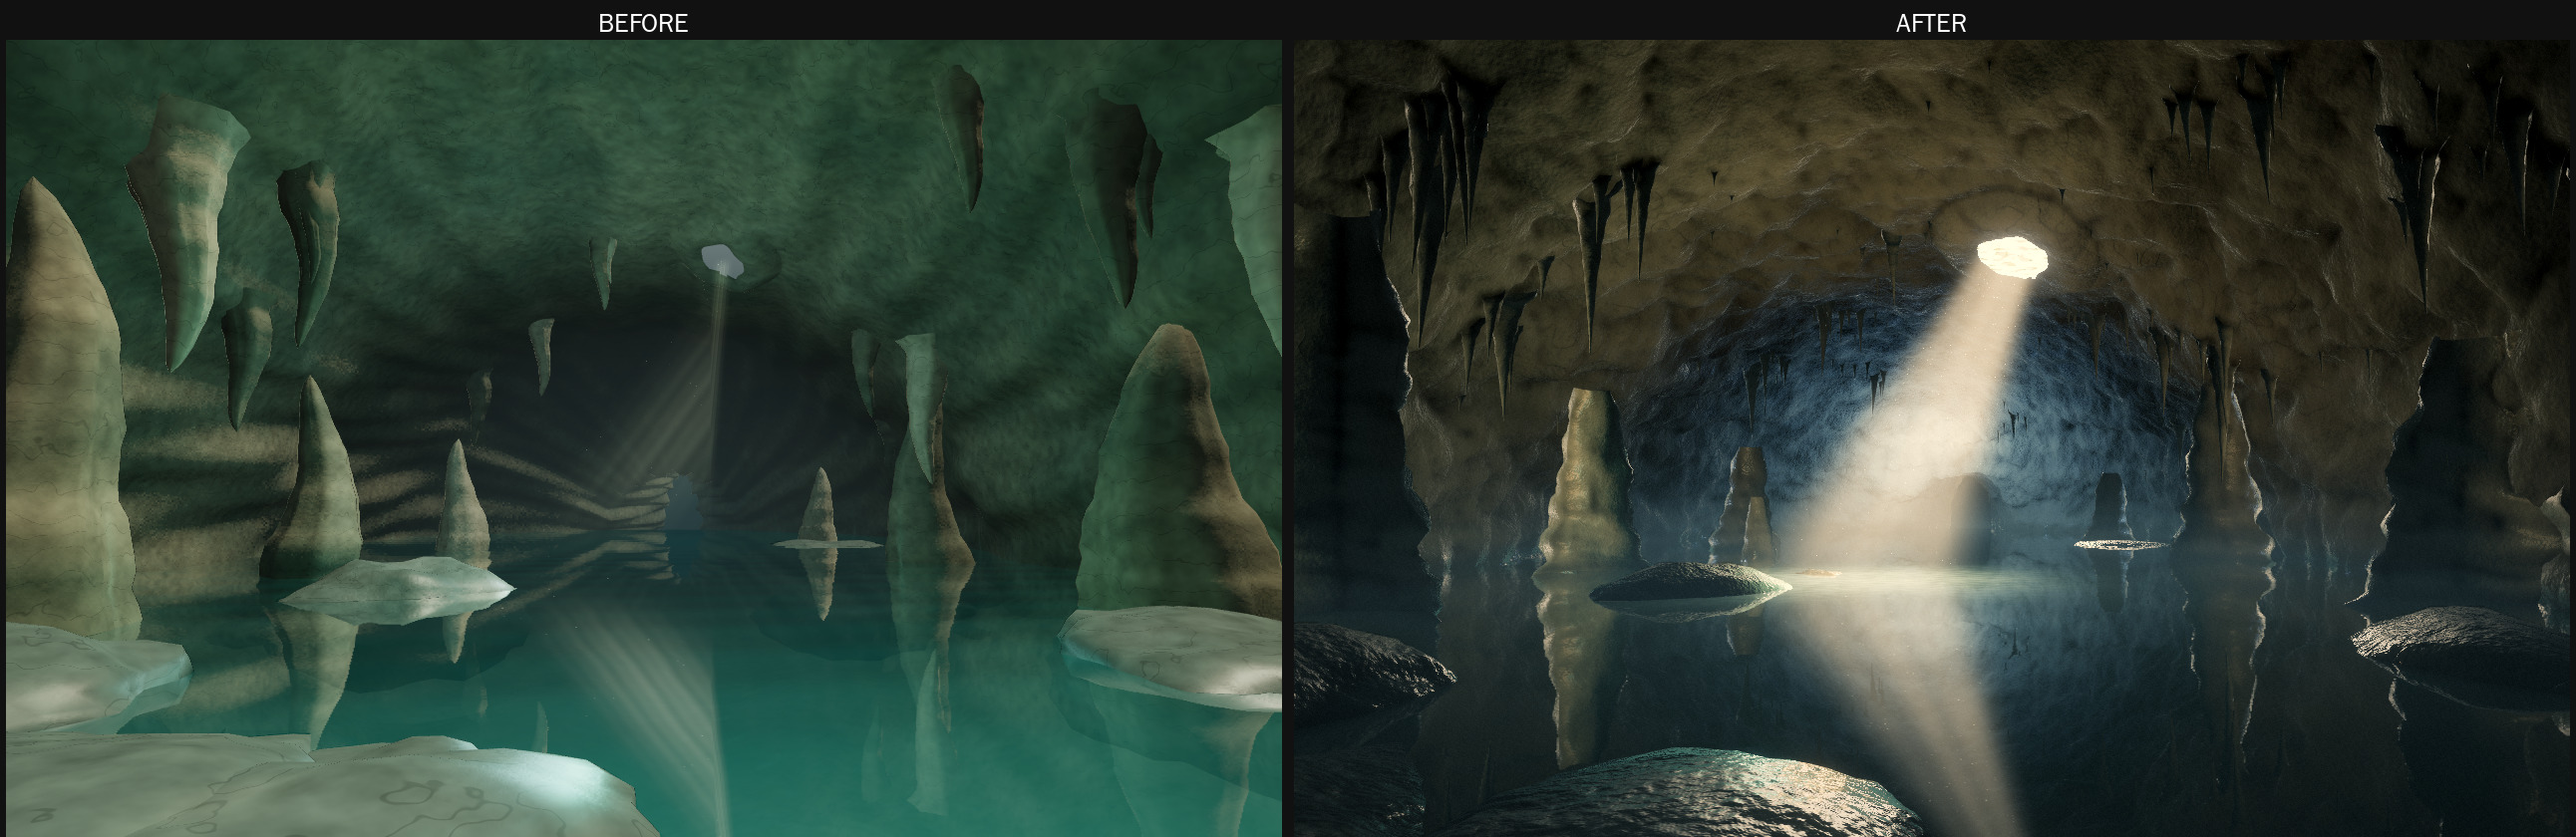
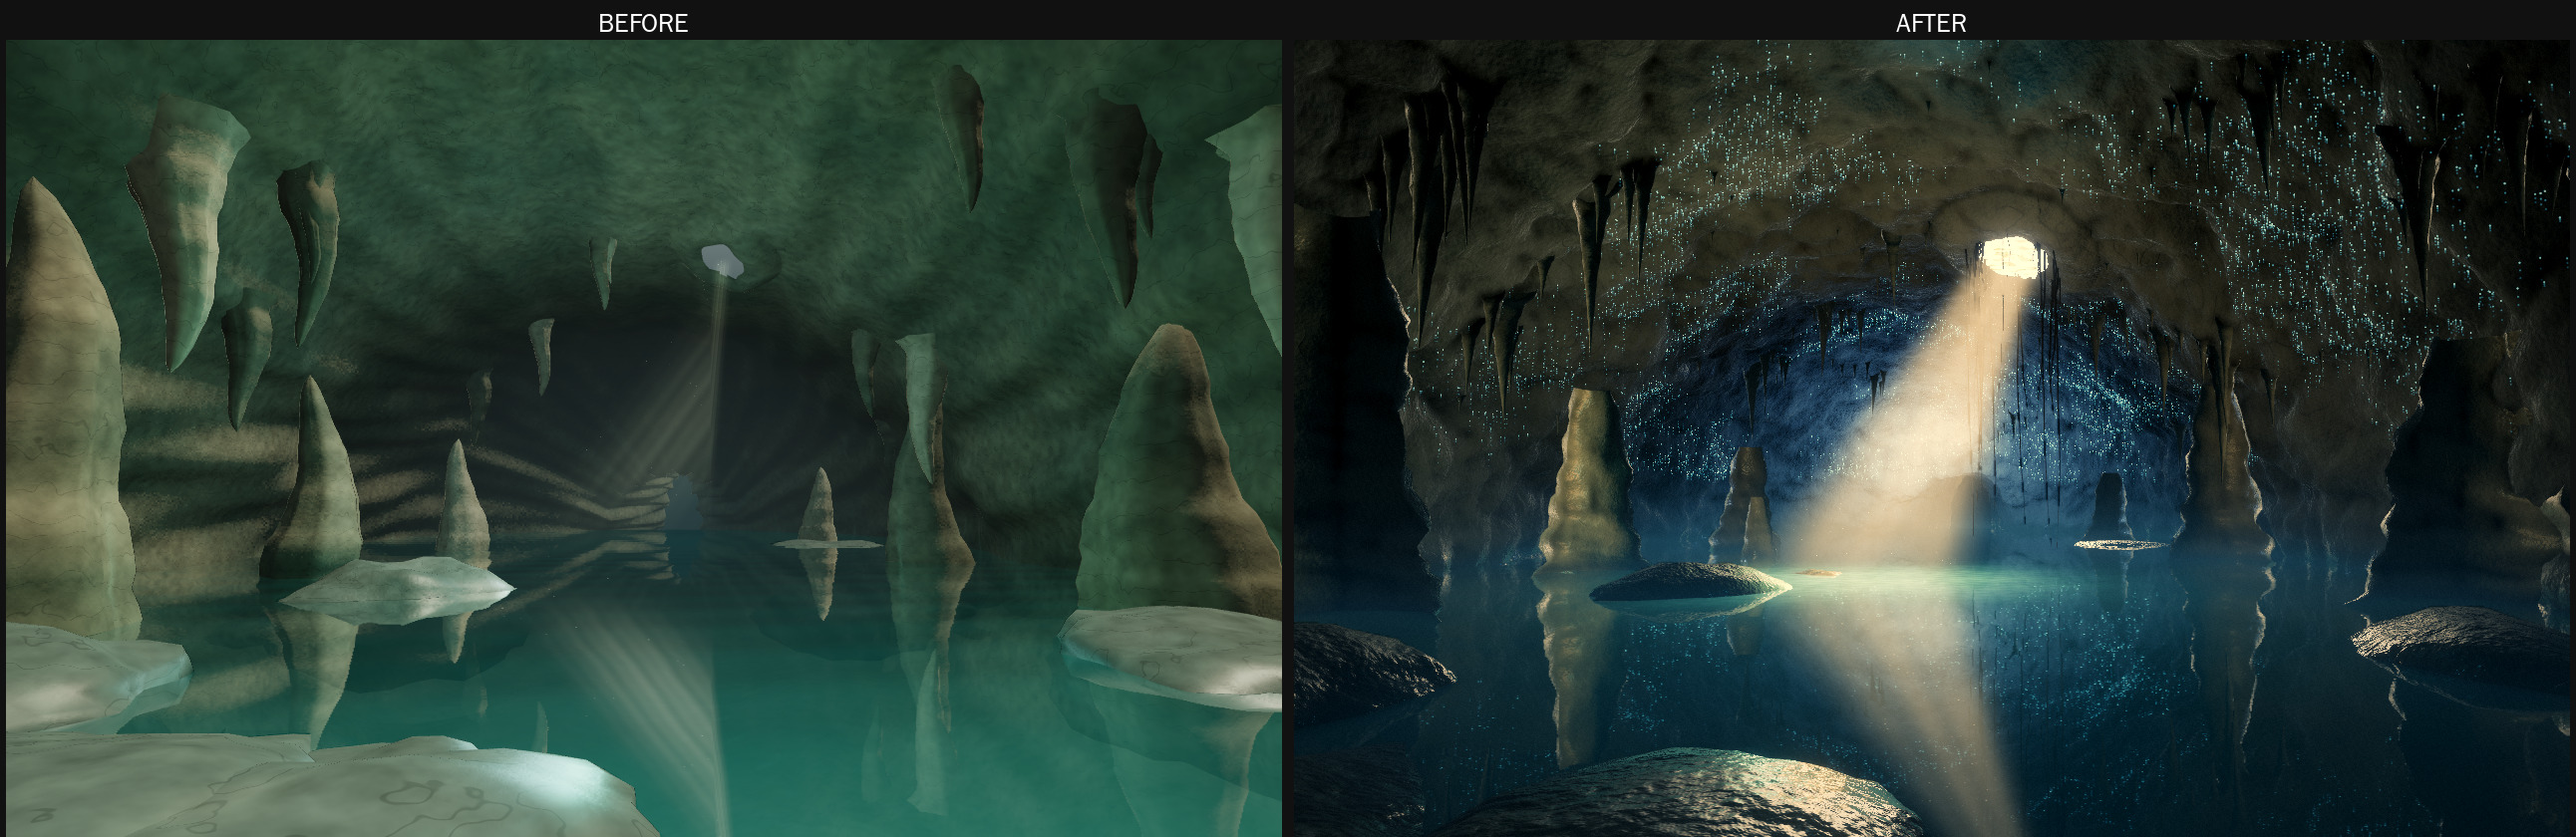
Make the cave more luminous and mysterious
- Glowworm colony: thousands of blue-green lures with beaded silk threads
  across the roof, each breathing slowly on its own phase; the still pool
  mirrors them like a night sky.
- Tree roots hang through the opening into the daylight shaft.
- Cenote-like turquoise glow spreads through the water from the light pool.
- A thin mist bank lies on the water; cave haze is cooler.
- Moss on the sunlit island (new upward-facing moss option in rockSurface).
- Cooler stone, dimmer fill and a teal-shadow / gold-highlight grade so the
  shaft and the colony carry the image.

Claude-Session: https://claude.ai/code/session_01VGKbtA9UtDn2W8JCtvG1sG

diff --git a/components/immersiveWorlds/deepWater/engine/cave.ts b/components/immersiveWorlds/deepWater/engine/cave.ts
@@ -19,7 +19,7 @@ const WATER_Y = 0.02;
 const APERTURE_THETA = 1.285;
 const APERTURE_Z = -18.2;
 const SHAFT_FOOT = new THREE.Vector3(-2, 0.03, -12.3);
-const SUN = new THREE.Color(1.0, 0.86, 0.66);
+const SUN = new THREE.Color(1.0, 0.82, 0.58);
 const smooth = (a: number, b: number, x: number) => { const t = Math.min(1, Math.max(0, (x - a) / (b - a))); return t * t * (3 - 2 * t); };
 
 /** Opening in (theta, z) space; also used to keep displacement away from it. */
@@ -185,7 +185,8 @@ void main() {
     vec3 p = ro + rd * ((float(i) + jitter) * dt);
     float shaft = shaftDensity(p, axis, axisLength, u1, u2) * uShaftDensity;
     float height = max(p.y - uWaterY, 0.0);
-    float mist = uMistDensity * exp(-height * 0.75) * (0.55 + 0.45 * bwValue(p * 0.3 + vec3(uTime * 0.03, 0.0, uTime * 0.01)));
+    // Broad cave haze plus a thin bank of mist lying on the still water.
+    float mist = uMistDensity * (exp(-height * 0.75) + 1.6 * exp(-height * 3.2)) * (0.4 + 0.6 * bwValue(p * 0.3 + vec3(uTime * 0.03, 0.0, uTime * 0.01)));
     float extinction = shaft + mist;
     vec3 radiance = uSun * phase * shaft + uAmbient * mist;
     float stepT = exp(-extinction * dt);
@@ -244,7 +245,7 @@ export function createCave(renderer: THREE.WebGLRenderer): WorldContent {
   const towardSun = shaftAxis.clone().normalize().negate();
 
   // --- Light: daylight through the roof is the only strong source. -------------
-  scene.add(new THREE.HemisphereLight('#6d93a3', '#2a241c', 0.34));
+  scene.add(new THREE.HemisphereLight('#4f86a0', '#1c1a18', 0.17));
   const spot = new THREE.SpotLight(SUN, 11, 0, Math.atan(3.3 / shaftLength), .55, 0);
   spot.map = shaftCookie();
   spot.castShadow = true; spot.shadow.mapSize.set(2048, 2048);
@@ -262,16 +263,20 @@ export function createCave(renderer: THREE.WebGLRenderer): WorldContent {
   const passage = new THREE.PointLight('#7fa7cf', 320, 42, 2);
   passage.position.set(-1.0, 3.4, -44);
   // Just enough fill for the seated ledge to read in the dark.
-  const near = new THREE.PointLight('#8ba3b4', 20, 16, 2);
+  const near = new THREE.PointLight('#8ba3b4', 14, 16, 2);
   near.position.set(1.2, 4.2, 8.6);
-  scene.add(bounce, waterBounce, passage, near);
+  // The glowworm colony washes the roof with the faintest cyan.
+  const colonyGlow = new THREE.PointLight('#4fc3d6', 7, 30, 2);
+  colonyGlow.position.set(.5, 10.5, -7);
+  scene.add(bounce, waterBounce, passage, near, colonyGlow);
 
   // --- Materials: world-space procedural stone. --------------------------------
   // Sunlit water throws moving caustics onto the stone around the shaft's foot.
   const caustics = { centre: new THREE.Vector3(SHAFT_FOOT.x, WATER_Y, SHAFT_FOOT.z), radius: 5.2, color: new THREE.Color(.75, 1.0, .86).multiplyScalar(.9), time: timeUniform };
-  const limestone = createRockMaterial('#9b927f', { key: 'cave-wall', caustics, scale: 1, bump: 1.25, stain: '#7a5432', stainAmount: .42, cavity: .62, strata: .7, waterY: WATER_Y, wetBand: 1.1, drips: .32, dryRoughness: .82, wetRoughness: .2 }, { side: THREE.DoubleSide });
+  const limestone = createRockMaterial('#8e8c84', { key: 'cave-wall', caustics, scale: 1, bump: 1.25, stain: '#7a5432', stainAmount: .42, cavity: .62, strata: .7, waterY: WATER_Y, wetBand: 1.1, drips: .32, dryRoughness: .82, wetRoughness: .2 }, { side: THREE.DoubleSide });
   const calcite = createRockMaterial('#cfc3a8', { key: 'cave-calcite', caustics, scale: 1.6, bump: .7, stain: '#b48a5a', stainAmount: .25, cavity: .3, strata: .2, waterY: WATER_Y, wetness: .35, drips: .5, dryRoughness: .5, wetRoughness: .14, algaeAmount: 0 });
   const wetStone = createRockMaterial('#8a897d', { key: 'cave-wet-stone', caustics, scale: 1.3, bump: 1.4, stain: '#3e3a30', stainAmount: .3, cavity: .7, strata: .3, waterY: WATER_Y, wetBand: .9, wetness: .25, drips: .2, dryRoughness: .78, wetRoughness: .16, algae: '#33402a', algaeAmount: .45 });
+  const mossyStone = createRockMaterial('#7d7c70', { key: 'cave-mossy', caustics, moss: { color: '#6b8a2e', amount: .95 }, scale: 1.3, bump: 1.2, cavity: .6, strata: .3, waterY: WATER_Y, wetBand: .5, wetness: .2, drips: .1, dryRoughness: .8, wetRoughness: .18, algae: '#33402a', algaeAmount: .5 });
   const bedStone = createRockMaterial('#4d544d', { key: 'cave-bed', scale: .9, bump: .8, cavity: .5, strata: .1, wetness: 1, dryRoughness: .5, wetRoughness: .3, algae: '#2c3a2a', algaeAmount: .6, waterY: WATER_Y });
 
   // --- Cavern shell. -------------------------------------------------------------
@@ -336,7 +341,7 @@ export function createCave(renderer: THREE.WebGLRenderer): WorldContent {
 
   const pool = createPool(renderer, scene, {
     width: 31, depth: 70, y: WATER_Y, color: '#2f6f66', position: [0, WATER_Y, -16], distortion: .5,
-    clear: { deepColor: '#021012', glow: { x: SHAFT_FOOT.x, z: SHAFT_FOOT.z, radius: 3.2, color: new THREE.Color(.55, .78, .62).multiplyScalar(3) }, lightDirection: towardSun, glint: 6 },
+    clear: { deepColor: '#01141a', glow: { x: SHAFT_FOOT.x, z: SHAFT_FOOT.z, radius: 3.6, color: new THREE.Color(.3, .9, .78).multiplyScalar(2.6) }, lightDirection: towardSun, glint: 6 },
   });
 
   // --- Dripstones: clustered stalactites, a few stalagmites and buttresses. ------
@@ -396,12 +401,91 @@ export function createCave(renderer: THREE.WebGLRenderer): WorldContent {
   boulder([-1.15, -.12, 5.8], [1.85, .56, 2.35], 163, wetStone, 14);
   boulder([-1.6, -.22, 4.3], [1.5, .44, 1.4], 187, wetStone, 12);
   // A low island catches the foot of the shaft: the brightest, warmest stone in view.
-  boulder([-3.6, -.5, -13.2], [1.8, .64, 1.5], 211, wetStone, 16);
+  boulder([-3.6, -.5, -13.2], [1.8, .64, 1.5], 211, mossyStone, 16);
   for (let i = 0; i < 23; i++) {
     const s = Math.sin(i * 19.79) * .5 + .5;
     const side = i % 2 === 0 ? -1 : 1;
     boulder([side * (7.2 + s * 2.2), -.69 + s * .18, 8 - i * 1.45], [.28 + s * .6, .17 + s * .25, .42 + s * .76], 100 + i, wetStone, 6);
   }
+
+  // --- Roots of the trees above hang through the opening into the light. --------
+  const rootRandom = seeded(313);
+  const rootGeometries: THREE.BufferGeometry[] = [];
+  for (let k = 0; k < 34; k++) {
+    const a = rootRandom() * Math.PI * 2, ring = rootRandom() * .7;
+    const start = wallPoint(APERTURE_THETA + Math.cos(a) * THREE.MathUtils.lerp(.08, .15, ring), APERTURE_Z + Math.sin(a) * THREE.MathUtils.lerp(1.8, 3.2, ring));
+    start.y -= .15;
+    const drop = 1.2 + rootRandom() ** 1.8 * 10.5;
+    const points = Array.from({ length: 9 }, (_, i) => {
+      const t = i / 8;
+      return new THREE.Vector3(start.x + Math.sin(t * 2.7 + k) * .22 * t + (rootRandom() - .5) * .06, start.y - drop * t, start.z + Math.cos(t * 2.1 + k * 1.7) * .22 * t + (rootRandom() - .5) * .06);
+    });
+    const curve = new THREE.CatmullRomCurve3(points);
+    const tubular = 48, radial = 7;
+    const tube = new THREE.TubeGeometry(curve, tubular, .018 + rootRandom() * .045, radial, false);
+    // Taper each root toward its tip.
+    const rootPosition = tube.attributes.position as THREE.BufferAttribute;
+    const centre = new THREE.Vector3(), vertex = new THREE.Vector3();
+    for (let i = 0; i <= tubular; i++) {
+      curve.getPointAt(i / tubular, centre);
+      const taper = 1 - .75 * i / tubular;
+      for (let j = 0; j <= radial; j++) {
+        const index = i * (radial + 1) + j;
+        vertex.fromBufferAttribute(rootPosition, index).sub(centre).multiplyScalar(taper).add(centre);
+        rootPosition.setXYZ(index, vertex.x, vertex.y, vertex.z);
+      }
+    }
+    tube.deleteAttribute('uv'); tube.computeVertexNormals();
+    rootGeometries.push(tube);
+  }
+  const roots = new THREE.Mesh(mergeGeometries(rootGeometries), new THREE.MeshStandardMaterial({ color: '#3b2d21', roughness: .72 }));
+  rootGeometries.forEach(geometry => geometry.dispose());
+  roots.name = 'cave-hanging-roots'; roots.castShadow = true; roots.receiveShadow = true;
+  scene.add(roots);
+
+  // --- Glowworm colony: blue-green lures and beaded silk threads on the roof. -----
+  // Each breathes slowly on its own phase; the still pool mirrors them like stars.
+  const wormRandom = seeded(9001);
+  const wormPositions: number[] = [], wormGlow: number[] = [], wormPhase: number[] = [];
+  for (let attempt = 0; attempt < 160000 && wormGlow.length < 27000; attempt++) {
+    const theta = .22 + wormRandom() * (Math.PI - .44), z = 15 - wormRandom() * 64;
+    if (apertureDistance(theta, z) < 5) continue;
+    // Cheap rejection on the undisplaced wall before the full surface evaluation.
+    const rough = baseWall(theta, z);
+    if (rough.y < 3.6) continue;
+    const colony = smooth(-.1, .35, fbm3(rough.x * .16 + 3, rough.y * .16, z * .16, 3));
+    if (wormRandom() > colony) continue;
+    const p = wallPoint(theta, z);
+    const inward = new THREE.Vector3(rough.centreX - p.x, -3 - p.y, 0).normalize();
+    p.addScaledVector(inward, .05);
+    const phase = wormRandom(), bright = .55 + wormRandom() * .45;
+    wormPositions.push(p.x, p.y, p.z); wormGlow.push(bright); wormPhase.push(phase);
+    const thread = .06 + wormRandom() ** 2 * .4;
+    for (let k = 1; k <= 2; k++) {
+      wormPositions.push(p.x, p.y - thread * k / 2, p.z);
+      wormGlow.push(bright * (.3 - k * .08)); wormPhase.push(phase);
+    }
+  }
+  const wormGeometry = new THREE.BufferGeometry();
+  wormGeometry.setAttribute('position', new THREE.Float32BufferAttribute(wormPositions, 3));
+  wormGeometry.setAttribute('glow', new THREE.Float32BufferAttribute(wormGlow, 1));
+  wormGeometry.setAttribute('phase', new THREE.Float32BufferAttribute(wormPhase, 1));
+  const glowworms = new THREE.Points(wormGeometry, new THREE.ShaderMaterial({
+    uniforms: { uPixelRatio: { value: Math.min(renderer.getPixelRatio(), 2) }, uTime: timeUniform },
+    transparent: true, depthWrite: false, blending: THREE.AdditiveBlending,
+    vertexShader: `uniform float uPixelRatio;uniform float uTime;attribute float glow;attribute float phase;varying float vGlow;
+      void main(){vec4 mv=modelViewMatrix*vec4(position,1.);
+        vGlow=glow*(.72+.28*sin(uTime*(.12+phase*.2)+phase*40.));
+        gl_PointSize=clamp(46./-mv.z,1.3,3.4)*uPixelRatio;gl_Position=projectionMatrix*mv;}`,
+    fragmentShader: `varying float vGlow;void main(){float d=length(gl_PointCoord-.5)*2.;float core=1.-smoothstep(0.,1.,d);
+      // Kept below white so the hue survives the tone curve; bloom supplies the halo.
+      gl_FragColor=vec4(vec3(.16,.78,1.)*2.4*vGlow*core,1.);
+      #include <tonemapping_fragment>
+      #include <colorspace_fragment>
+    }`,
+  }));
+  glowworms.name = 'cave-glowworms';
+  scene.add(glowworms);
 
   // --- Daylight beyond the opening: bright sky behind a leafy canopy. -----------
   const skyMaterial = new THREE.ShaderMaterial({
@@ -477,8 +561,8 @@ export function createCave(renderer: THREE.WebGLRenderer): WorldContent {
   return {
     scene, camera, target,
     post: {
-      exposure: 1.3, bloomStrength: .085, bloomThreshold: 0, aoStrength: 1, aoRadius: .9,
-      saturation: .96, contrast: 1.1, shadowTint: [.9, 1.0, 1.08], highlightTint: [1.07, 1.0, .9], vignette: .5, grain: .03,
+      exposure: 1.25, bloomStrength: .1, bloomThreshold: 0, aoStrength: 1, aoRadius: .9,
+      saturation: 1.06, contrast: 1.14, shadowTint: [.86, .98, 1.12], highlightTint: [1.1, 1.0, .84], vignette: .55, grain: .03,
     },
     prepare(live) {
       // A tiny radiance probe: dark rock, the bright opening and teal water glow.
@@ -502,7 +586,7 @@ export function createCave(renderer: THREE.WebGLRenderer): WorldContent {
         vertexShader: FULLSCREEN_VERTEX, fragmentShader: VOLUME_FRAGMENT, depthTest: false, depthWrite: false, toneMapped: false,
         uniforms: {
           uApex: { value: aperture.clone() }, uFoot: { value: SHAFT_FOOT.clone() }, uTopRadius: { value: 1.25 }, uFootRadius: { value: 3.4 },
-          uSun: { value: new THREE.Vector3(SUN.r, SUN.g, SUN.b).multiplyScalar(4.2) }, uAmbient: { value: new THREE.Vector3(.08, .12, .13) },
+          uSun: { value: new THREE.Vector3(SUN.r, SUN.g, SUN.b).multiplyScalar(4.2) }, uAmbient: { value: new THREE.Vector3(.05, .11, .14) },
           uShaftDensity: { value: .05 }, uMistDensity: { value: .045 }, uWaterY: { value: WATER_Y },
         },
       });

diff --git a/components/immersiveWorlds/shared/render/rockSurface.ts b/components/immersiveWorlds/shared/render/rockSurface.ts
@@ -34,6 +34,8 @@ export interface RockSurfaceOptions {
   wetBand?: number;
   algae?: THREE.ColorRepresentation;
   algaeAmount?: number;
+  /** Moss on upward-facing stone, e.g. where daylight reaches (0..1). */
+  moss?: { color: THREE.ColorRepresentation; amount: number };
   /** Light reflected off sunlit water, dancing on nearby stone. */
   caustics?: { centre: THREE.Vector3; radius: number; color: THREE.Color; time: { value: number } };
   /** Unique key: each distinct option set compiles to its own program. */
@@ -68,11 +70,12 @@ export function applyRockSurface(material: THREE.MeshStandardMaterial, options: 
       shader.uniforms.uCausticColor = { value: caustics.color };
     }
     shader.vertexShader = shader.vertexShader
-      .replace('#include <common>', '#include <common>\nvarying vec3 vRockWorld;')
-      .replace('#include <worldpos_vertex>', '#include <worldpos_vertex>\nvRockWorld = (modelMatrix * vec4(transformed, 1.0)).xyz;');
+      .replace('#include <common>', '#include <common>\nvarying vec3 vRockWorld;\nvarying vec3 vRockNormal;')
+      .replace('#include <worldpos_vertex>', '#include <worldpos_vertex>\nvRockWorld = (modelMatrix * vec4(transformed, 1.0)).xyz;\nvRockNormal = normalize(mat3(modelMatrix) * objectNormal);');
     shader.fragmentShader = shader.fragmentShader
       .replace('#include <common>', `#include <common>
 varying vec3 vRockWorld;
+varying vec3 vRockNormal;
 ${GLSL_NOISE}
 ${options.caustics ? 'uniform float uRockTime; uniform vec3 uCausticCentre; uniform vec3 uCausticColor;' : ''}
 float rockCrackAt(vec3 p) {
@@ -102,11 +105,14 @@ float rockDrip = smoothstep(0.42, 0.72, bwFbm3(vec3(rockP.x * 2.2, rockP.y * 0.1
 float rockWet = clamp(max(max(${f(o.wetness)}, rockBand), rockDrip), 0.0, 1.0);
 rockColor = mix(rockColor, ${vec3(o.algae)} * (0.8 + 0.4 * rockMid), rockBand * ${f(o.algaeAmount)} * smoothstep(-0.4, 0.2, rockAbove));
 rockColor *= mix(1.0, 0.58, rockWet);
+float rockMoss = 0.0;
+${options.moss ? `rockMoss = smoothstep(0.3, 0.75, normalize(vRockNormal).y + 0.3 * bwNoise(rockP * 2.3 + 6.0)) * smoothstep(0.05, 0.3, rockAbove) * ${f(options.moss.amount)};
+rockColor = mix(rockColor, ${vec3(options.moss.color)} * (0.65 + 0.5 * rockMid + 0.25 * bwNoise(rockP * 9.0)), rockMoss);` : ''}
 diffuseColor.rgb = rockColor;
 `)
       .replace('#include <roughnessmap_fragment>', `#include <roughnessmap_fragment>
 roughnessFactor = mix(${f(o.dryRoughness)}, ${f(o.wetRoughness)}, rockWet) * (0.9 + 0.2 * rockMid);
-roughnessFactor = clamp(roughnessFactor + rockCrack * 0.15, 0.04, 1.0);
+roughnessFactor = clamp(mix(roughnessFactor + rockCrack * 0.15, 0.92, rockMoss), 0.04, 1.0);
 `)
       .replace('#include <normal_fragment_maps>', `#include <normal_fragment_maps>
 {

diff --git a/components/immersiveWorlds/deepWater/engine/environment.ts b/components/immersiveWorlds/deepWater/engine/environment.ts
@@ -94,7 +94,7 @@ const clearWaterFragment = `uniform vec3 color;uniform vec3 deepColor;uniform sa
     float distance=length(p-glowCentre.xy);
     float pool=exp(-distance*distance/(glowCentre.z*glowCentre.z));
     float caustic=.55+.45*sin(p.x*5.1+sin(p.y*4.3+time*.35)*1.7)*sin(p.y*5.7+sin(p.x*3.9-time*.31)*1.5);
-    vec3 body=deepColor*(.75+.25*sin(p.y*.14))+glowColor*pool*(.55+.45*caustic)+glowColor*.06*exp(-distance*.16);
+    vec3 body=deepColor*(.75+.25*sin(p.y*.14))+glowColor*pool*(.55+.45*caustic)+glowColor*.16*exp(-distance*.2);
     vec3 light=mix(body,reflected,fresnel)+ringLight*(color+glowColor*pool);
     vec3 h=normalize(lightDirection+viewDir);
     light+=glowColor*glint*pow(max(dot(normal,h),0.),420.)*(.25+pool*4.);
